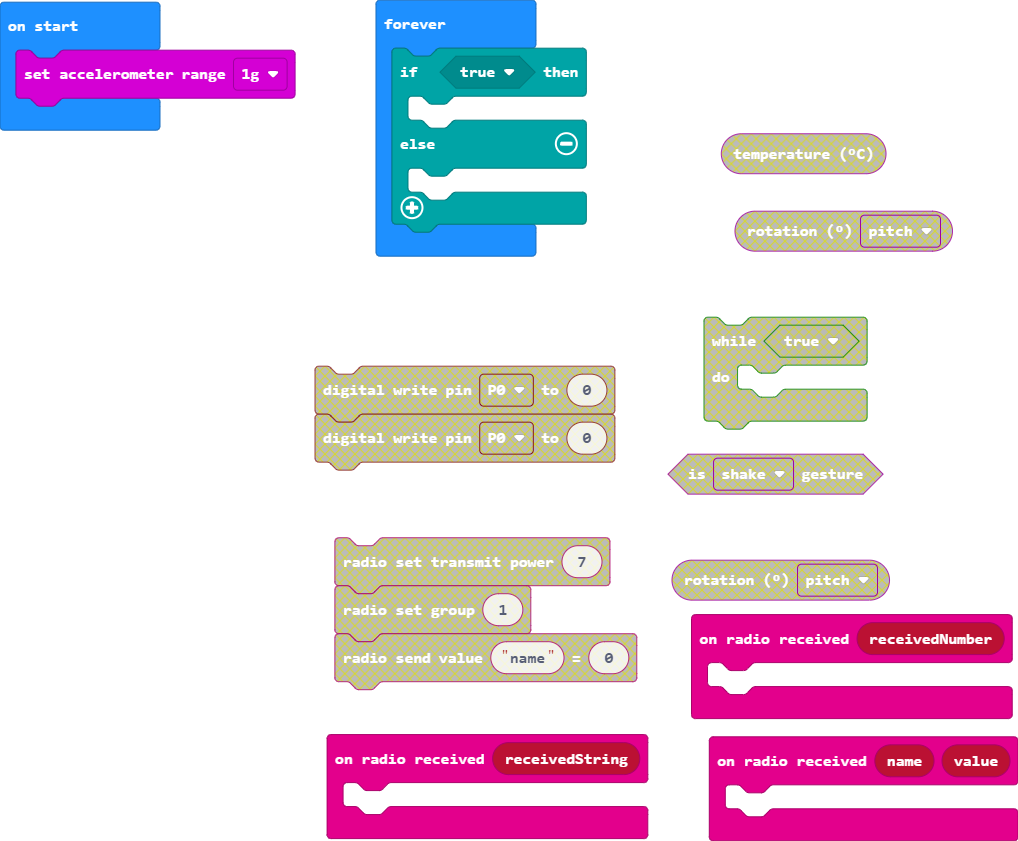
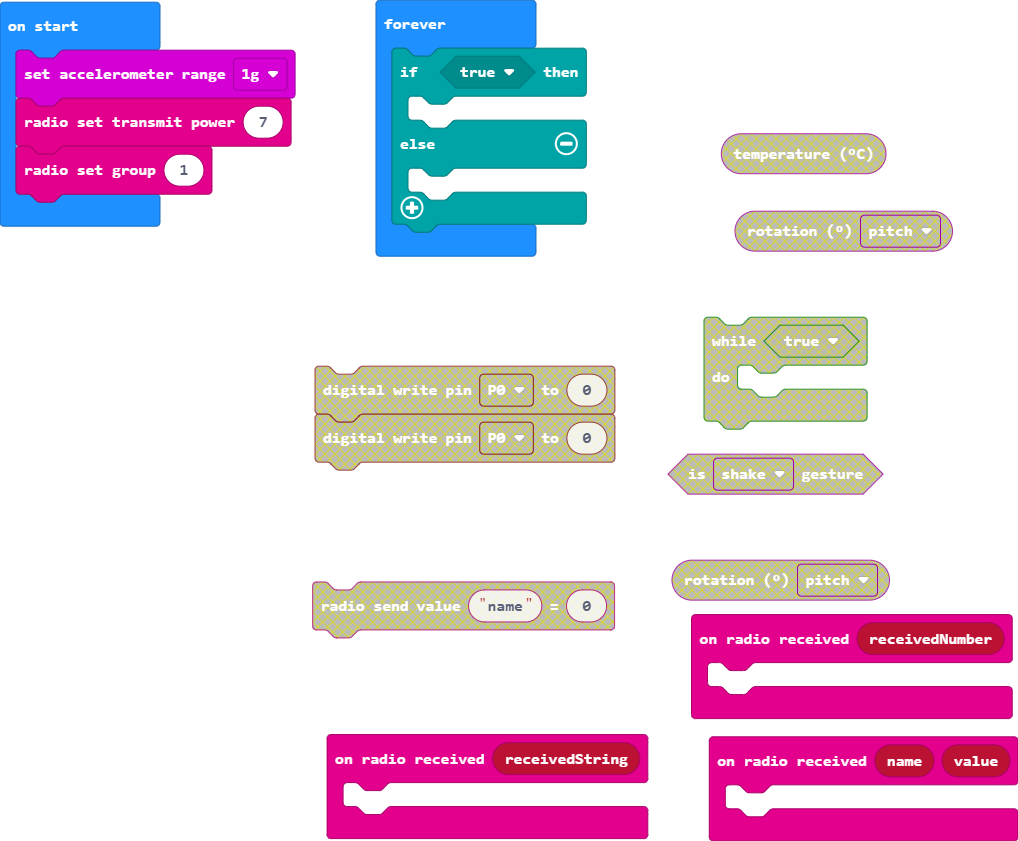
Just thinking about Setup reqs.

Changed region(s): [[0.3045, 0.6183, 0.6395, 0.8347], [0.0, 0.0927, 0.3045, 0.2782]]

diff --git a/main.ts b/main.ts
@@ -8,6 +8,8 @@ radio.onReceivedValue(function (name, value) {
 	
 })
 input.setAccelerometerRange(AcceleratorRange.OneG)
+radio.setTransmitPower(7)
+radio.setGroup(1)
 basic.forever(function () {
     if (true) {
     	
